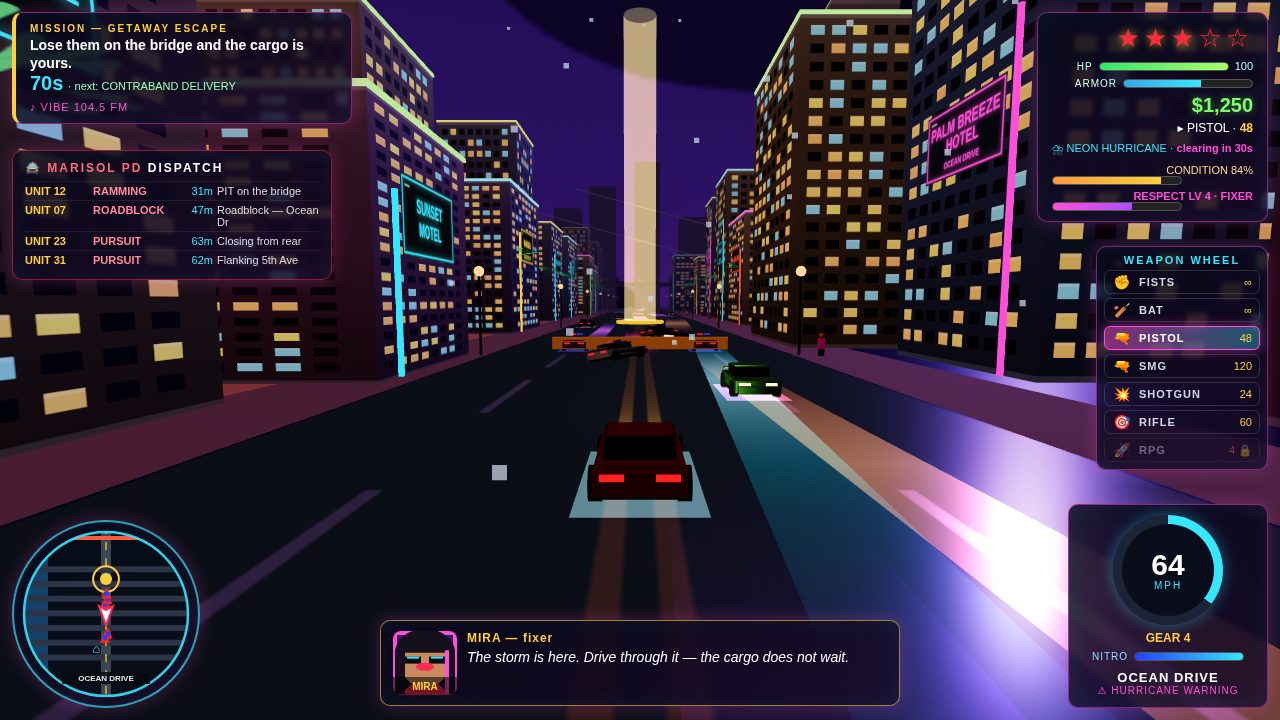
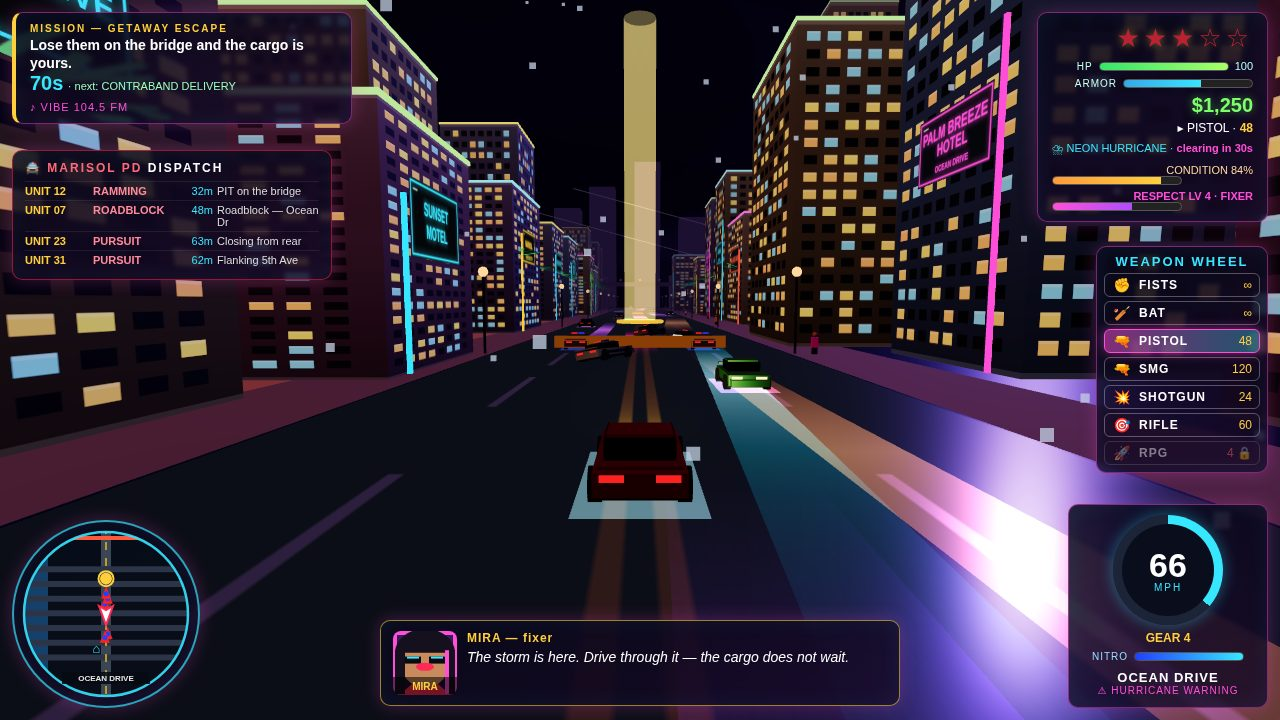
v4: PROJECT VICE polish-only — garage un-occlusion, HUD contrast + focal sizes, first-frame fade

diff --git a/game/index.html b/game/index.html
@@ -13,6 +13,8 @@
   canvas#scene { position:absolute; inset:0; width:100%; height:100%; display:block; }
   .panel { position:absolute; background:linear-gradient(160deg, rgba(10,8,26,.88), rgba(24,10,40,.82)); border:1px solid rgba(255,79,216,.45); border-radius:10px; box-shadow:0 0 18px rgba(255,79,216,.25), inset 0 0 24px rgba(55,230,255,.06); backdrop-filter:blur(2px); }
   .hidden { display:none !important; }
+  @keyframes panel-in { from { opacity:0; } to { opacity:1; } }
+  .panel { animation:panel-in 180ms ease-out both; }
 
   /* top-left: mission tracker + radio */
   #mission-panel { top:12px; left:12px; padding:10px 14px; max-width:340px; border-left:4px solid var(--gold); }
@@ -69,7 +71,7 @@
   #drive-panel { right:12px; bottom:12px; padding:10px 14px; text-align:center; min-width:200px; }
   #speed-ring { --p:20; width:110px; height:110px; border-radius:50%; margin:0 auto; display:flex; flex-direction:column; align-items:center; justify-content:center; background:conic-gradient(var(--cyan) calc(var(--p)*1%), #1c2438 0); box-shadow:0 0 16px rgba(55,230,255,.4); }
   #speed-ring .inner { width:92px; height:92px; border-radius:50%; background:#0a0e1c; display:flex; flex-direction:column; align-items:center; justify-content:center; }
-  #speed-num { font-size:30px; font-weight:bold; line-height:1; }
+  #speed-num { font-size:34px; font-weight:bold; line-height:1; }
   #speed-unit { font-size:10px; color:var(--cyan); letter-spacing:2px; }
   #gear { font-size:12px; color:var(--gold); margin-top:6px; font-weight:bold; }
   #nitro-row { display:flex; align-items:center; gap:6px; margin-top:6px; justify-content:center; }
@@ -80,8 +82,8 @@
 
   /* weapon wheel — right centre (between the status panel and drive panel) */
   #weapon-wheel { right:12px; top:246px; display:flex; flex-direction:column; gap:4px; padding:7px; width:172px; }
-  #weapon-wheel h3 { font-size:11px; letter-spacing:2px; color:var(--cyan); text-align:center; }
-  .wslot { display:flex; align-items:center; gap:7px; font-size:11px; padding:3px 7px; border-radius:6px; border:1px solid rgba(255,255,255,.14); color:#cfd6e4; }
+  #weapon-wheel h3 { font-size:13px; letter-spacing:2px; color:var(--cyan); text-align:center; }
+  .wslot { display:flex; align-items:center; gap:7px; font-size:12px; padding:3px 7px; border-radius:6px; border:1px solid rgba(255,255,255,.30); color:#fff; }
   .wslot .ic { font-size:14px; width:20px; text-align:center; }
   .wslot .nm { flex:1; font-weight:bold; letter-spacing:1px; }
   .wslot .am { color:var(--gold); }
@@ -102,7 +104,7 @@
   /* garage + pause overlays */
   .overlay { left:50%; top:50%; transform:translate(-50%,-50%); width:520px; max-width:92vw; padding:22px; z-index:30; }
   /* garage panel sits right of centre so the player's car stays visible */
-  #garage-panel { left:72%; width:460px; }
+  #garage-panel { left:68%; width:400px; }
   .overlay h2 { font-size:22px; color:var(--cyan); letter-spacing:2px; }
   .overlay p { font-size:13px; line-height:1.5; margin-top:8px; color:#e8ecf4; }
   .overlay .row { display:flex; gap:8px; margin-top:14px; flex-wrap:wrap; }
